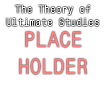
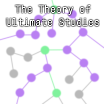
W & Z Bosons

Changed region(s): [[0.0, 0.0, 1.0, 1.0], [0.5769, 0.9519, 0.6058, 1.0], [0.4038, 0.9808, 0.4327, 1.0]]

diff --git a/stylesheets/theme-Aarexs Modifications.css b/stylesheets/theme-Aarexs Modifications.css
@@ -56,7 +56,7 @@ body {
 #coinAmount {
     color: #0072e5 !important
 }
-.storebtn, .completedchallengesbtn, .pc4completed, .chosenbtn {
+.storebtn, .completedchallengesbtn, .pc4completed {
     border-color: #00e500 !important;
     background-color: #191919 !important;
     color: #e5e5e5 !important;
@@ -178,7 +178,7 @@ strong { color: #0072e5 }
 }
 #singularitytabbtn, #singularityunlock.storebtn, #sacrificeIP.storebtn, #blackHoleTabbtn button, #blackholeunlock.storebtn, #blackholediv table .storebtn, #replicantstabbtn button, #replicantReset.storebtn, #edtabbtn button { border: 2px solid #333333 !important }
 #singularitytabbtn:hover, #singularityunlock.storebtn:hover, #sacrificeIP.storebtn:hover, #blackHoleTabbtn button:hover, #blackholeunlock.storebtn:hover, #blackholediv table .storebtn:hover, #replicantstabbtn button:hover, #replicantReset.storebtn:hover, #edtabbtn button:hover { background-color: #333333 !important }
-#singularityPower, #darkMatter, #darkMatterPerSecond, #darkMatterDT, #nextDiscounts, #darkMatterMult, #blackholePowAmount, #DilMultAmount, #InfAndReplMultAmount, #replicantAmount, #workerReplAmount, #babyReplAmount, #workerProgress, #hatchProgress, #growupProgress, #replicantAmountED, #normalReplicantsNanofield, .dmAmount { 
+#singularityPower, #darkMatter, #darkMatterPerSecond, #darkMatterDT, #nextDiscounts, #darkMatterMult, #blackholePowAmount, #DilMultAmount, #InfAndReplMultAmount, #replicantAmount, #workerReplAmount, #babyReplAmount, #workerProgress, #hatchProgress, #growupProgress, #replicantAmountED, #normalReplicantsNanofield, .dmAmount, #dp, #dpPercentage, #dpPercentageGain { 
 	color: #333333 !important;
 	text-shadow: 0px 0px 3px #333333, 0px 0px 4.5px #e5e5e5
 }
@@ -642,8 +642,14 @@ strong { color: #0072e5 }
 #bltabbtn button:hover, .gluonupgrade.bl:hover {
 	color: #e5e5e5 !important
 }
-#bWatt, #bSpeed, #bTotalSpeed, #bAM, #bAMProduction, #bAMEffect, #bBt, #bBtProduction, #odSpeed {
+#bWatt, #bSpeed, #bTotalSpeed, #bAM, #bAMProduction, #bAMEffect, #bBt, #bBtProduction, #odSpeed, #zb, #wbTime, #wbSpeed {
 	color: #c73415
+}
+.chosenbtn {
+    border-color: #191919 !important;
+    background-color: #00e500 !important;
+    color: #191919 !important;
+    border-radius: 0px !important
 }
 .bRune {
 	background: #e5e5e5;
@@ -670,6 +676,13 @@ strong { color: #0072e5 }
 	border: 1px solid transparent !important;
 	color: #191919 !important;
 	text-shadow: 0px 0px 3px #191919, 0px 0px 6px #e5e5e5;
+}
+#wpb {
+	color: #620d65;
+	text-shadow: 0px 0px 3px #0c0c0c, 0px 0px 4.5px #e5e5e5
+}
+#wnb {
+	color: #9df29a
 }
 .notifyjs-bootstrap-info {
     background-color: #0072e5;

diff --git a/javascripts/core/load_functions.js b/javascripts/core/load_functions.js
@@ -830,7 +830,17 @@ if (player.version < 5) {
                       odSpeed: 1
                   },
                   wzb: {
-                      unl: false
+                      unl: false,
+                      dP: 0,
+                      dPPercentage: 0,
+                      dPUse: 0,
+                      wQkUp: true,
+                      zNeGen: 1,
+                      zNePercentage: 1,
+                      zNeReq: 1,
+                      wpb: 0,
+                      wnb: 0,
+                      wb: 0
                   }
               }
               tmp.bl=player.ghostify.bl
@@ -1250,7 +1260,17 @@ if (player.version < 5) {
           odSpeed: 1
       }
       player.ghostify.wzb = {
-          unl: false
+          unl: false,
+          dP: 0,
+          dPPercentage: 0,
+          dPUse: 0,
+          wQkUp: true,
+          zNeGen: 1,
+          zNePercentage: 1,
+          zNeReq: 1,
+          wpb: 0,
+          wnb: 0,
+          wb: 0
       }
       tmp.bl=player.ghostify.bl
       for (var g=1;g<br.names.length;g++) tmp.bl.glyphs.push(0)
@@ -1291,6 +1311,11 @@ if (player.version < 5) {
       }
       if (player.ghostify.wzb.unl) giveAchievement("Even Ghostlier than before")
       if (!tmp.bl.usedEnchants.length) tmp.bl.usedEnchants=[]
+      if (player.ghostify.wzb.dPUse===undefined) {
+          player.ghostify.wzb.dPUse=0
+          player.ghostify.wzb.wQkUp=true
+          player.ghostify.wzb.zNeGen=1
+      }
       updateAutoGhosts(true)
   }
   if (player.aarexModifications.newGame3PlusVersion!=undefined) {
@@ -2576,6 +2601,14 @@ function transformSaveToDecimal() {
           tmp.bl.battery=new Decimal(tmp.bl.battery)
           tmp.bl.odSpeed=new Decimal(tmp.bl.odSpeed)
           for (var g2=2;g2<br.names.length;g2++) for (var g1=1;g1<g2;g1++) if (tmp.bl.enchants[g1*10+g2]!==undefined) tmp.bl.enchants[g1*10+g2]=new Decimal(tmp.bl.enchants[g1*10+g2])
+
+          player.ghostify.wzb.dP=new Decimal(player.ghostify.wzb.dP)
+          player.ghostify.wzb.dPPercentage=new Decimal(player.ghostify.wzb.dPPercentage)
+          player.ghostify.wzb.zNePercentage=new Decimal(player.ghostify.wzb.zNePercentage)
+          player.ghostify.wzb.zNeReq=new Decimal(player.ghostify.wzb.zNeReq)
+          player.ghostify.wzb.wpb=new Decimal(player.ghostify.wzb.wpb)
+          player.ghostify.wzb.wnb=new Decimal(player.ghostify.wzb.wnb)
+          player.ghostify.wzb.zb=new Decimal(player.ghostify.wzb.zb)
       }
   }
 }

diff --git a/javascripts/mods/ngppp.js b/javascripts/mods/ngppp.js
@@ -4086,6 +4086,18 @@ function updateGhostifyTabs() {
 			updateEnchantDescs()
 		}
 		if (document.getElementById("butab").style.display=="block") updateBosonicUpgradeDescs()
+		if (document.getElementById("wzbtab").style.display=="block") {
+			let data2=player.ghostify.wzb
+			document.getElementById("wzbSpeed").textContent="Current speed with Bosonic Speed: "+shorten(speed.times(tmp.wzbs))+"x"
+			document.getElementById("dp").textContent=shortenDimensions(data2.dP)
+			document.getElementById("dpPercentage").textContent=data2.dPPercentage.toFixed(1)
+			document.getElementById("dpPercentageGain").textContent="+"+shorten(tmp.dppg.times(speed.times(tmp.wzbs)))+"%/s"
+			document.getElementById("wpb").textContent=shortenDimensions(data2.wpb)
+			document.getElementById("wnb").textContent=shortenDimensions(data2.wnb)
+			document.getElementById("wbTime").textContent=shorten(tmp.wzbt)
+			document.getElementById("wbSpeed").textContent=shorten(tmp.wzbs)
+			document.getElementById("zb").textContent=shortenDimensions(data2.zb)
+		}
 	}
 }
 
@@ -4457,7 +4469,12 @@ function bosonicTick(diff) {
 		diff=fasterDiff.add(diff.sub(odDiff.min(diff)))
 	} else diff=diff.times(data.odSpeed.min(1))
 	data.ticks=data.ticks.add(diff)
-
+	
+	//W & Z Bosons
+	lDiff=diff.times(tmp.wzbs)
+	lData=player.ghostify.wzb
+	lData.dPPercentage=lData.dPPercentage.add(tmp.dppg.times(lDiff)).min(100)
+	
 	//Bosonic Extractor
 	if (data.usedEnchants.includes(12)) {
 		data.autoExtract=data.autoExtract.add(diff.times(tmp.bEn[12]))
@@ -4534,6 +4551,7 @@ function getExtractTime(noFast) {
 	let data=tmp.bl
 	let r=data.amountToExtract.pow(2).times(br.scalings[data.typeToExtract]||1/0)
 	if (!noFast) r=r.div(getEnchantEffect(23))
+	r=r.div(tmp.wzbt)
 	return r
 }
 

diff --git a/index.html b/index.html
@@ -5105,11 +5105,11 @@
 					<div id="bextab" class="bltab">
 						<table class='qtable'><tr>
 							<td>
-								Amount to extract Bosonic Runes:<br>
+								Amount of Bosonic Runes to extract:<br>
 								<input id="amountToExtract" onchange="changeAmountToExtract()"></input>
 							</td>
 							<td>
-								Type to extract Bosonic Runes:<br>
+								Type of Bosonic Rune to extract:<br>
 								<div id="typeToExtract"></div>
 							</td>
 							<td>
@@ -5124,7 +5124,22 @@
 						<table class="table" id="enchants" align="center" style="margin: auto"></table>
 					</div>
 					<div id="butab" class="bltab"><table class="table" id="bUpgs" align="center" style="margin: auto"></table></div>
-					<div id="wzbtab" class="bltab">Coming soon...</div>
+					<div id="wzbtab" class="bltab">
+						<span id="wzbSpeed"></span>
+						<table class='qtable'><tr>
+							<td>
+								You have <span id="wpb" style="font-size:35px"></span> W+ Bosons and <span id="wnb" style="font-size:35px"></span> W- Bosons.<br>
+								Translated to <span id="wbTime" style="font-size:35px"></span>x faster extracting time and <span id="wbSpeed" style="font-size:35px"></span>x speed.
+							</td>
+							<td>
+								You have <span id="dp" style="font-size:35px"></span> Dark Preons.<br>
+								<span id="dpPercentage" style="font-size:25px"></span>% to gain 1 Dark Preon. <span id="dpPercentageGain" style="font-size:25px"></span>
+							</td>
+							<td>
+								You have <span id="zb" style="font-size:35px"></span> Z Bosons.
+							</td>
+						</tr></table>
+					</div>
 				</div>
 			</div>
 			<div id="footercontainer">

diff --git a/stylesheets/theme-Aarexs Mods II.css b/stylesheets/theme-Aarexs Mods II.css
@@ -192,7 +192,7 @@ button, div.storebtn {
     color: #e5e5e5 !important
 }
 
-#singularityPower, #darkMatterAmount, #darkMatterPerSecond, #nextUpgrade, #darkMatterDT, #nextDiscounts, #blackholePowAmount, #replicantAmount, #workerReplAmount, #hatchProgress, #babyReplAmount, #growupRate, #replicantAmountED, .dmAmount {
+#singularityPower, #darkMatterAmount, #darkMatterPerSecond, #nextUpgrade, #darkMatterDT, #nextDiscounts, #blackholePowAmount, #replicantAmount, #workerReplAmount, #hatchProgress, #babyReplAmount, #growupRate, #replicantAmountED, .dmAmount, #dp, #dpPercentage, #dpPercentageGain {
 	color: #0c0c0c !important;
 	text-shadow: 0px 0px 3px #0c0c0c, 0px 0px 4.5px #e5e5e5
 }
@@ -649,7 +649,7 @@ button, div.storebtn {
 	color: #e5e5e5 !important
 }
 
-#bWatt, #bSpeed, #bTotalSpeed, #bAM, #bAMProduction, #bAMEffect, #bBt, #bBtProduction, #odSpeed {
+#bWatt, #bSpeed, #bTotalSpeed, #bAM, #bAMProduction, #bAMEffect, #bBt, #bBtProduction, #odSpeed, #zb, #wbTime, #wbSpeed {
 	color: #c73415
 }
 
@@ -683,7 +683,16 @@ button, div.storebtn {
 	color: #191919 !important;
 	text-shadow: 0px 0px 3px #191919, 0px 0px 6px #e5e5e5;
 }
-				
+
+#wpb {
+	color: #620d65;
+	text-shadow: 0px 0px 3px #0c0c0c, 0px 0px 4.5px #e5e5e5
+}
+
+#wnb {
+	color: #9df29a
+}
+
 @keyframes rg {
 	0% {color: #e50000}
 	25% {color: #e5e500}

diff --git a/javascripts/game.js b/javascripts/game.js
@@ -608,7 +608,17 @@ function updateNewPlayer(reseted) {
                 odSpeed: 1
             },
             wzb: {
-                unl: false
+                unl: false,
+                dP: 0,
+                dPPercentage: 0,
+                dPUse: 0,
+                wQkUp: true,
+                zNeGen: 1,
+                zNePercentage: 1,
+                zNeReq: 1,
+                wpb: 0,
+                wnb: 0,
+                wb: 0
             }
         }
         tmp.bl=player.ghostify.bl
@@ -1076,7 +1086,9 @@ function updateTemp() {
 				tmp.bEnLvl[id]=tmp.bl.enchants[id]||new Decimal(0)
 				if (bEn.effects[id]!==undefined) tmp.bEn[id]=getEnchantEffect(id)
 			}
+			tmp.wzbt=new Decimal(1)
 			tmp.wzbs=new Decimal(1)
+			tmp.dppg=new Decimal(1)
 		}
 		if (player.ghostify.ghostlyPhotons.unl) {
 			let lePower=player.ghostify.ghostlyPhotons.enpowerments

diff --git a/javascripts/core/infinity_dimension.js b/javascripts/core/infinity_dimension.js
@@ -247,10 +247,12 @@ function getIDReplMult() {
 }
 
 function getEU2Mult() {
-	var e = getEternitied()
+	var e = nMx(getEternitied(), 0)
+	if (typeof(e) == "number" && isNaN(e)) e = 0
 	if (player.boughtDims) return Decimal.pow(e, Decimal.times(e,2).add(1).log(Math.E)/Math.log(4))
-	var cap = nMn(e, 100000)
-	var soft = nS(e, cap)
+	var cap = nMn(e, 1e5)
+	var soft = 0
+	if (e > 1e5) soft = nS(e, cap)
 	return Decimal.pow(cap/200 + 1, Math.log(cap*2+1)/Math.log(4)).times(Decimal.div(soft,200).add(1).times(Decimal.times(soft,2).add(1).log(Math.E)/Math.log(4)).max(1)).max(player.achievements.includes("ngpp15")?Decimal.pow(10, Math.pow(Decimal.log10(e), 4.75)):1)
 }
 
